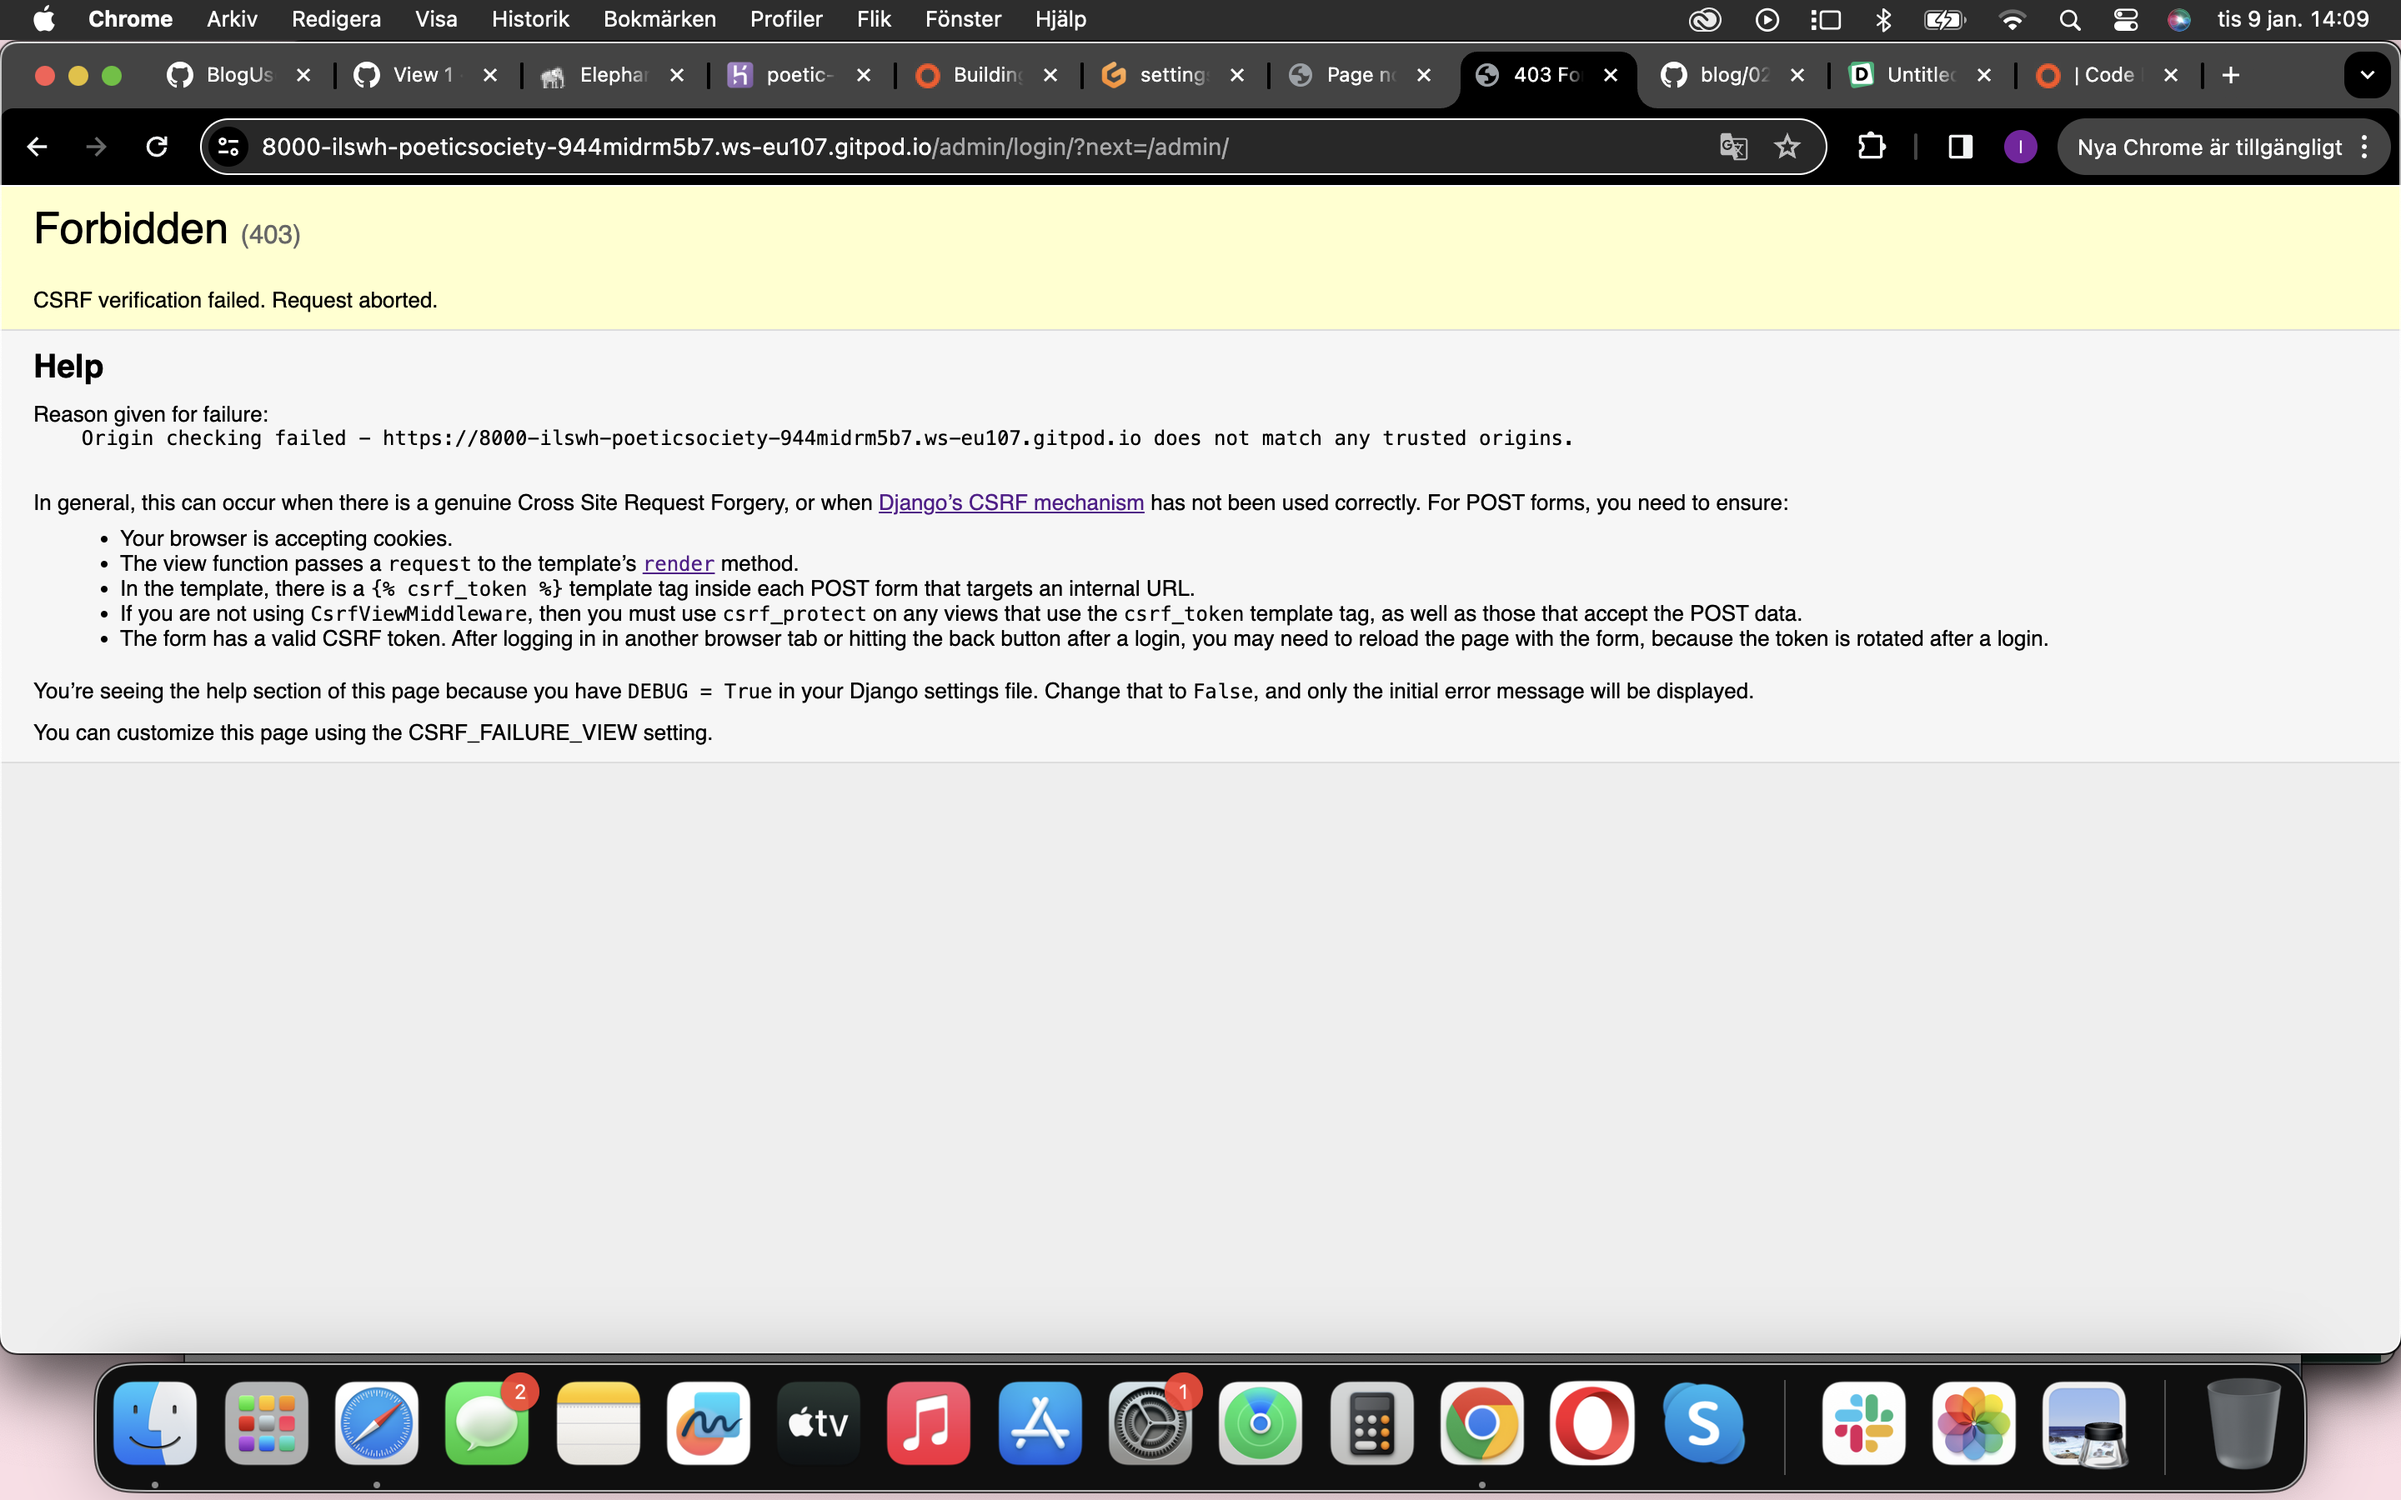
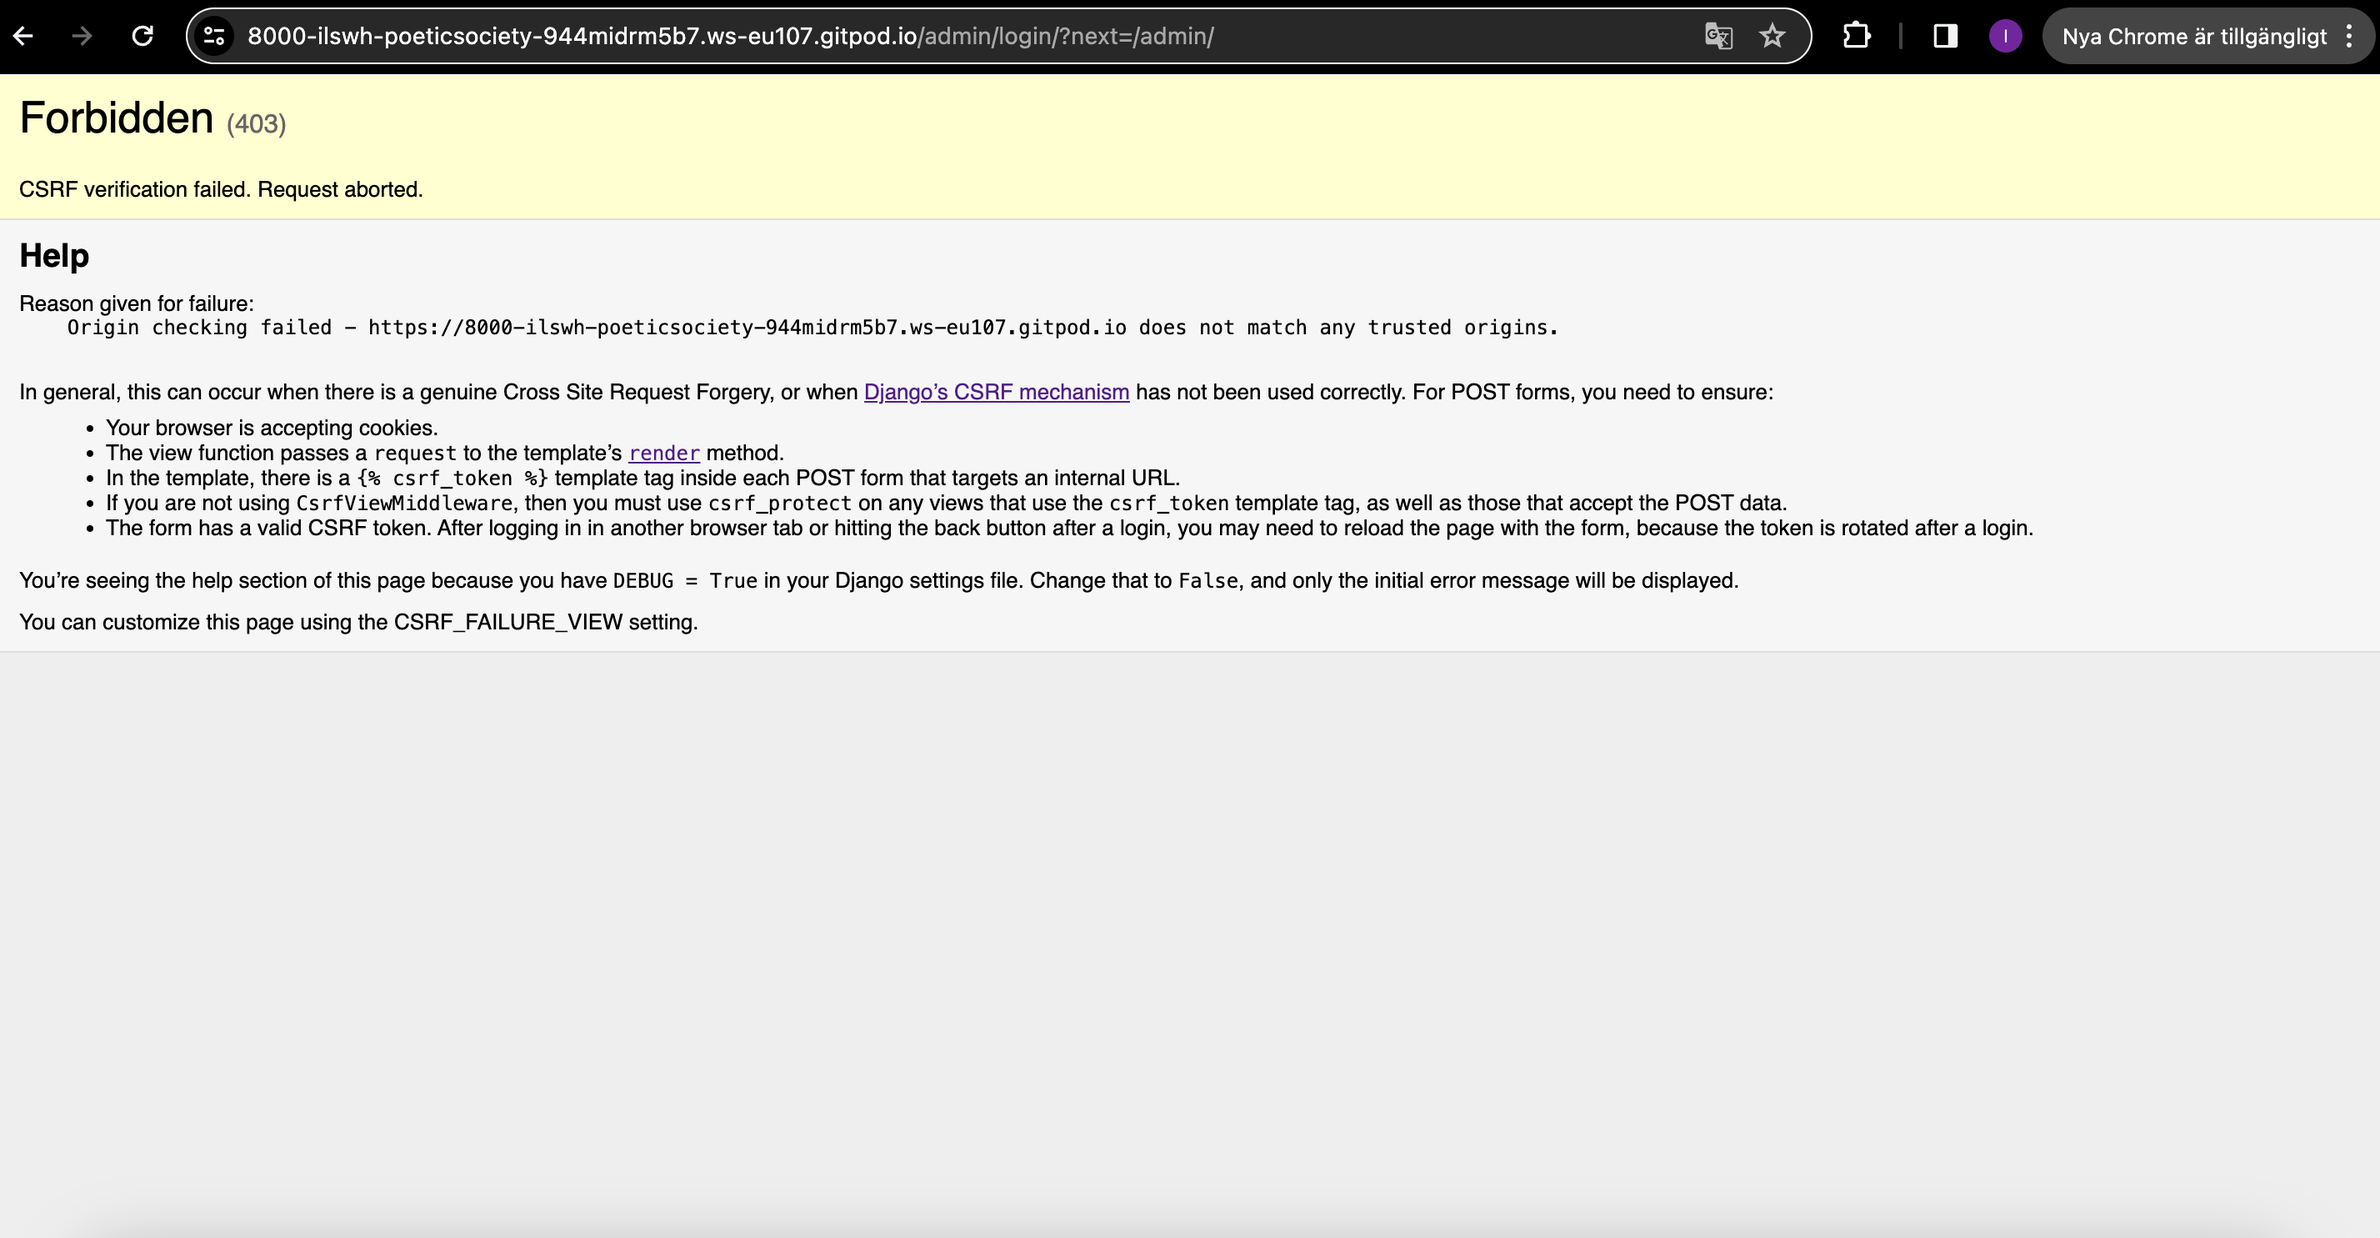
Add documentation and descriptive text about bugs

Changed region(s): [[0.0, 0.0, 1.0, 0.5266], [0.0, 0.8983, 1.0, 1.0]]

diff --git a/TESTING.md b/TESTING.md
@@ -217,45 +217,34 @@ Below are the results from the various apps on my application that I've tested:
 
 #### Unit Test Issues
 
-Use this section to list any known issues you ran into while writing your unit tests.
-Remember to include screenshots (where possible), and a solution to the issue (if known).
-This can be used for both "fixed" and "unresolved" issues.
-
 ## Bugs
 
-- Python `'ModuleNotFoundError'` when trying to import module from imported package
+-  `'include is not defined'` when trying to runserver.
 
-    ![screenshot](documentation/bug03.png)
+    ![screenshot](documentation/bug-2.png)
 
-    - To fix this, I _____________________.
+    - To fix this, I made the code shorter and easier for me to comprehend.
 
-- Python `'ModuleNotFoundError'` when trying to import module from imported package
+      ![screenshot](documentation/bug-2-fix.png)
 
-    ![screenshot](documentation/bug03.png)
+-  `missing destination file operand` after message
 
-    - To fix this, I _____________________.
+    ![screenshot](documentation/bug-3.png)
 
-- Django `TemplateDoesNotExist` at /appname/path appname/template_name.html
+    - To fix this, I added the name destination file.
 
-    ![screenshot](documentation/bug04.png)
+-  `CSRF verification failed` 
 
-    - To fix this, I _____________________.
+    ![screenshot](documentation/bug-5.png)
 
-- Python `E501 line too long` (93 > 79 characters)
+    - To fix this, I added the gitpod link to trusted origins in settings.py
 
-    ![screenshot](documentation/bug04.png)
+    ![screenshot](documentation/bug-05-fix.png)
 
-    - To fix this, I _____________________.
 
 ### GitHub **Issues**
 
 https://github.com/ilswh/poetic-society/issues
-Issues allow you to directly paste screenshots into the issue without having to first save the screenshot locally,
-then uploading into your project.
-You can add labels to your issues (`bug`), assign yourself as the owner, and add comments/updates as you progress with fixing the issue(s).
-Once you've sorted the issue, you should then "Close" it.
-
-When showcasing your bug tracking for assessment, you can use the following format:
 
 **Fixed Bugs**
 
@@ -263,8 +252,9 @@ All previously closed/fixed bugs can be tracked [here](https://github.com/ilswh/
 
 | Bug | Status |
 | --- | --- |
-| [Python `'ModuleNotFoundError'` when trying to import module from imported package](https://github.com/ilswh/poetic-society/issues/2) | Closed |
-| [Django `TemplateDoesNotExist` at /appname/path appname/template_name.html](https://github.com/ilswh/poetic-society/issues/3) | Closed |
+| [`include is not defined` when trying to runserver.](https://github.com/ilswh/poetic-society/issues/11) | Closed |
+| [`missing destination file operand` after message](https://github.com/ilswh/poetic-society/issues/12) | Closed |
+| [`CSRF verification failed`](https://github.com/ilswh/poetic-society/issues/13) | Closed |
 
 **Open Issues**
 
@@ -272,24 +262,21 @@ Any remaining open issues can be tracked [here](https://github.com/ilswh/poetic-
 
 | Bug | Status |
 | --- | --- |
-| [JS `'let'` or `'const'` or `'template literal syntax'` or `'arrow function syntax (=>)'` is available in ES6 (use `'esversion: 11'`) or Mozilla JS extensions (use moz).](https://github.com/ilswh/poetic-society/issues/4) | Open |
-| [Python `E501 line too long` (93 > 79 characters)](https://github.com/ilswh/poetic-society/issues/5) | Open |
+| [register.html valdidation failed](https://github.com/ilswh/poetic-society/issues/14) | Open |
+| [style.css valdidation failed](https://github.com/ilswh/poetic-society/issues/15) | Open |
 
 ## Unfixed Bugs
 
-You will need to mention unfixed bugs and why they were not fixed.
-This section should include shortcomings of the frameworks or technologies used.
-Although time can be a big variable to consider, paucity of time and difficulty understanding
-implementation is not a valid reason to leave bugs unfixed.
-If you've identified any unfixed bugs, no matter how small, be sure to list them here.
-It's better to be honest and list them, because if it's not documented and an assessor finds the issue,
-they need to know whether or not you're aware of them as well, and why you've not corrected/fixed them.
+- Django-allauth has a known bug with the signup form. It adds <p> tags within another block element, and causes HTML validation errors from W3C:.
 
+    ![screenshot](documentation/bug-6.png)
 
-- On devices smaller than 375px, the page starts to have `overflow-x` scrolling.
+    - I have not yet attempted to fix this.
 
-    ![screenshot](documentation/unfixed-bug01.png)
+- Parse error.
 
-    - Attempted fix: I tried to add additional media queries to handle this, but things started becoming too small to read.
+    ![screenshot](documentation/css-validation.png)
+
+    - I have not yet attempted to fix this.
 
 There are no remaining bugs that I am aware of.
